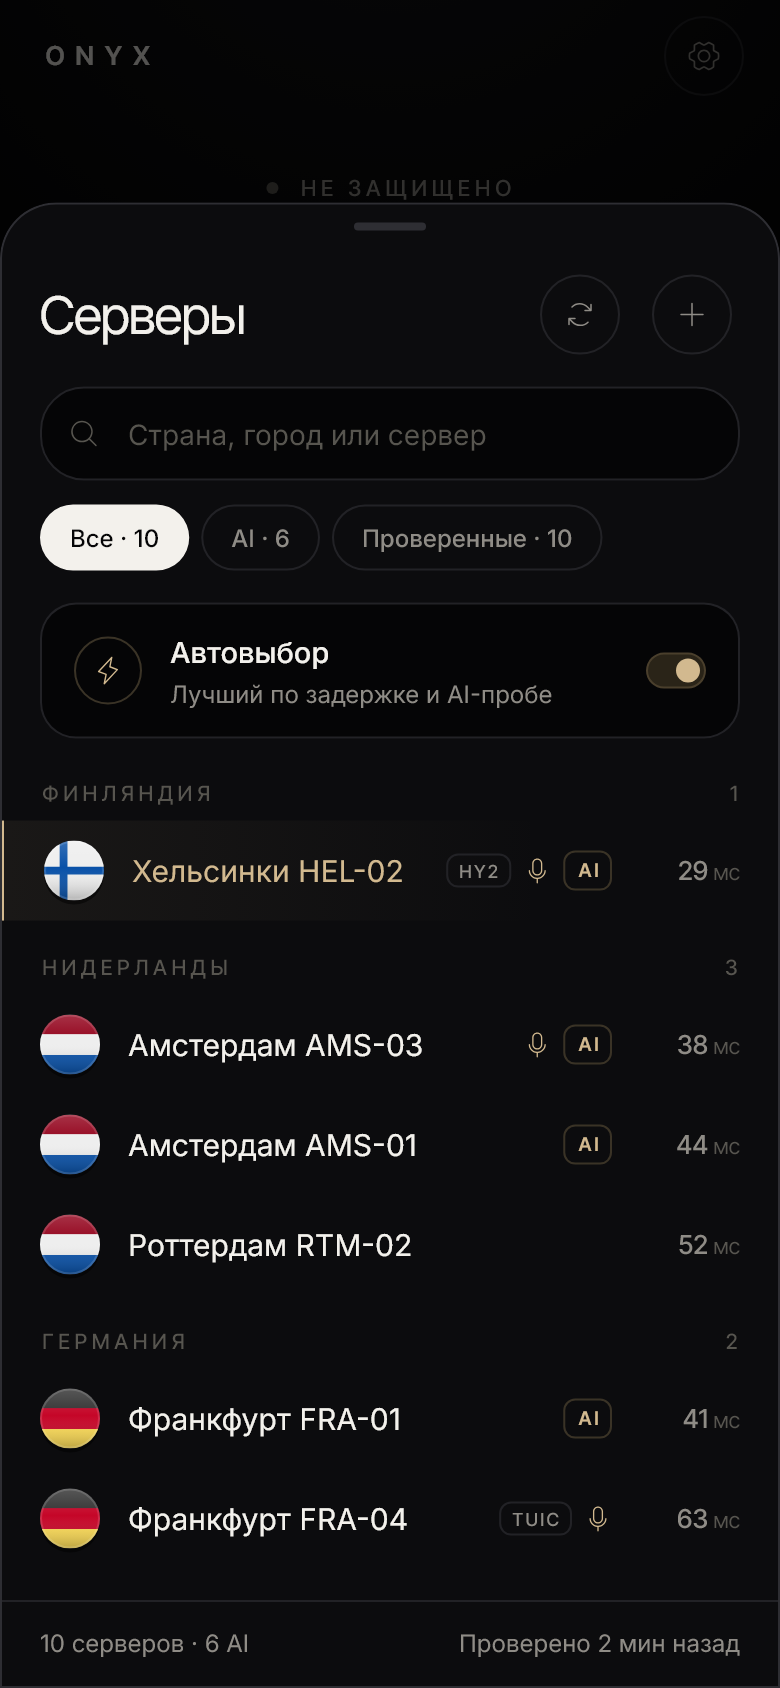
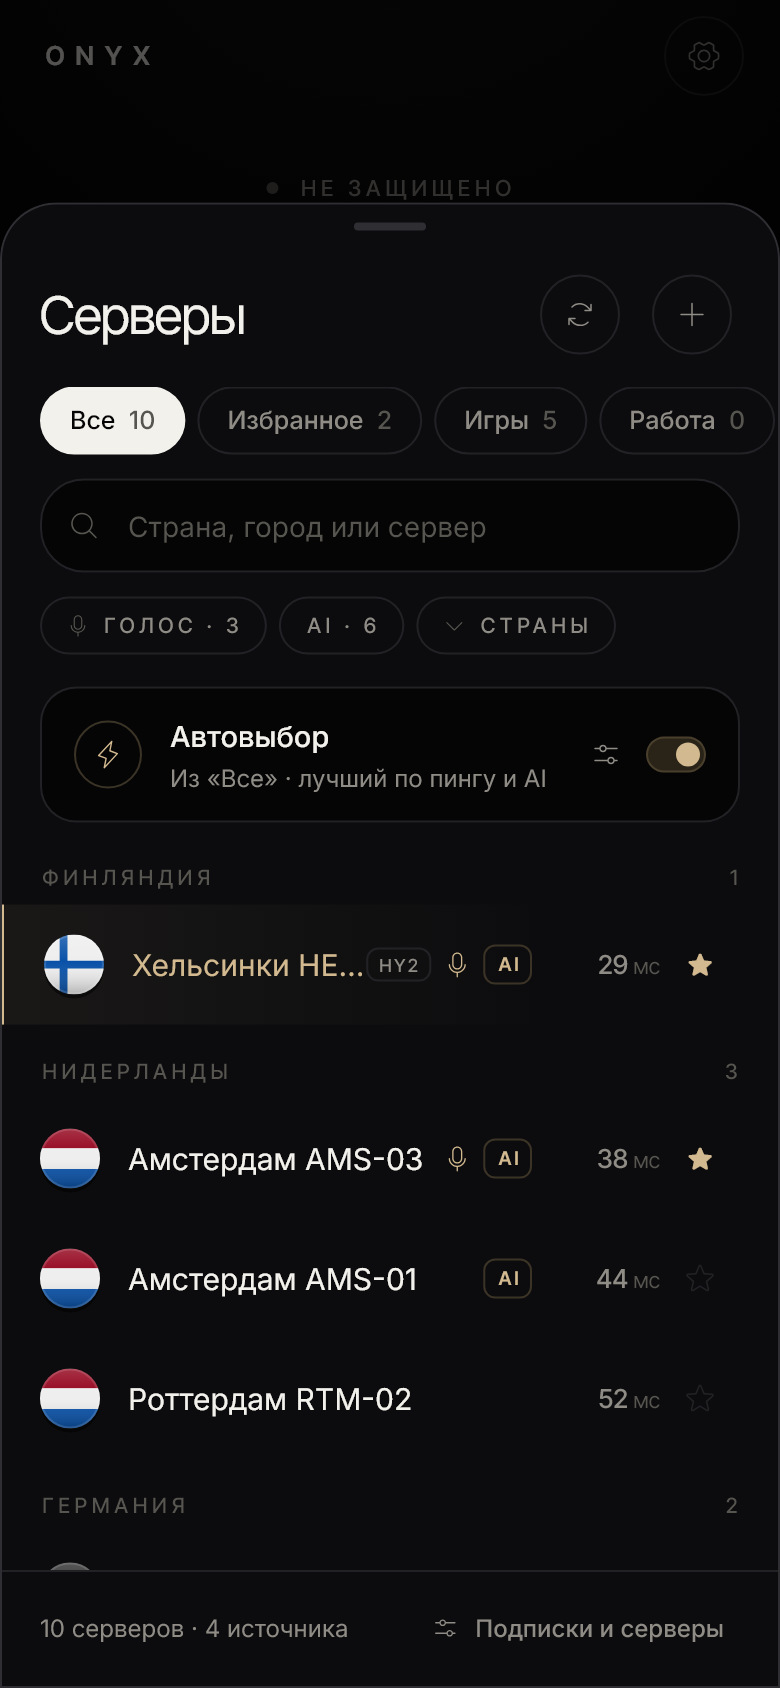
feat(redesign): #40 доводка — lastError в тостах, onReorderItem, звезда в Signal, иконки вместо ▾/★, golden источников/групп/добавления/первого запуска

diff --git a/test/screens_golden_test.dart b/test/screens_golden_test.dart
@@ -15,8 +15,12 @@ import 'package:flutter_test/flutter_test.dart';
 import 'package:onyx/core/theme/app_theme.dart';
 import 'package:onyx/core/theme/theme_kind.dart';
 import 'package:onyx/domain/entities/node.dart';
+import 'package:onyx/domain/entities/node_group.dart';
+import 'package:onyx/domain/entities/subscription_source.dart';
 import 'package:onyx/domain/entities/vpn_state.dart';
 import 'package:onyx/infrastructure/update_service.dart';
+import 'package:onyx/presentation/providers/groups_provider.dart';
+import 'package:onyx/presentation/providers/sources_provider.dart';
 import 'package:onyx/presentation/providers/subscription_provider.dart';
 import 'package:onyx/presentation/providers/theme_provider.dart';
 import 'package:onyx/presentation/providers/update_provider.dart';
@@ -24,8 +28,11 @@ import 'package:onyx/presentation/providers/vpn_provider.dart';
 import 'package:onyx/presentation/screens/home_screen.dart';
 import 'package:onyx/presentation/screens/faq_screen.dart';
 import 'package:onyx/presentation/screens/onboarding_screen.dart';
+import 'package:onyx/presentation/screens/groups_screen.dart';
 import 'package:onyx/presentation/screens/settings_screen.dart';
+import 'package:onyx/presentation/screens/setup_screen.dart';
 import 'package:onyx/presentation/screens/subscription_manager_screen.dart';
+import 'package:onyx/presentation/widgets/add_source_sheet.dart';
 import 'package:onyx/presentation/widgets/country_flag.dart';
 import 'package:onyx/presentation/widgets/node_list_sheet.dart';
 import 'package:shared_preferences/shared_preferences.dart';
@@ -43,6 +50,42 @@ class FakeSub extends StateNotifier<SubscriptionState> implements SubscriptionCo
   @override
   dynamic noSuchMethod(Invocation i) => Future<void>.value();
 }
+
+class FakeSources extends StateNotifier<List<SubscriptionSource>> implements SourcesController {
+  FakeSources(super.state);
+  @override
+  dynamic noSuchMethod(Invocation i) => Future<void>.value();
+}
+
+class FakeGroups extends StateNotifier<List<NodeGroup>> implements GroupsController {
+  FakeGroups(super.state);
+  @override
+  dynamic noSuchMethod(Invocation i) => Future<void>.value();
+}
+
+class FakeFavorites extends StateNotifier<Set<String>> implements FavoritesController {
+  FakeFavorites(super.state);
+  @override
+  dynamic noSuchMethod(Invocation i) => Future<void>.value();
+}
+
+class FakeAutoGroup extends StateNotifier<String?> implements AutoGroupController {
+  FakeAutoGroup(super.state);
+  @override
+  dynamic noSuchMethod(Invocation i) => Future<void>.value();
+}
+
+final sources = [
+  SubscriptionSource(id: 'z', name: 'Белые списки (РФ)', kind: SourceKind.subscription, url: 'https://z', presetId: 'zieng2', nodeCount: 7, autoUpdateHours: 6, lastUpdatedAt: DateTime.now().subtract(const Duration(minutes: 2))),
+  const SubscriptionSource(id: 'c', name: 'Бесплатные (Китай)', kind: SourceKind.subscription, url: 'https://c', presetId: 'china-free', nodeCount: 38, status: SourceStatus.fetching),
+  SubscriptionSource(id: 'v', name: 'Мой VPS', kind: SourceKind.links, nodeCount: 3, lastUpdatedAt: DateTime.now().subtract(const Duration(hours: 1))),
+  const SubscriptionSource(id: 'w', name: 'Рабочая подписка', kind: SourceKind.subscription, url: 'https://sub.example.com/abc', nodeCount: 12, enabled: false, status: SourceStatus.error, error: 'HTTP 403'),
+];
+
+const groups = [
+  NodeGroup(id: 'g1', name: 'Игры', nodeIds: ['4', '5'], sourceIds: ['v']),
+  NodeGroup(id: 'g2', name: 'Работа', sourceIds: ['w']),
+];
 
 class FakeUpdate extends UpdateController {
   @override
@@ -67,6 +110,7 @@ Node node(String id, String name, int? ping, {bool ai = false, bool alive = true
       aiReachable: ai,
       protocol: proto,
       udpSupported: udp,
+      sourceIds: [int.parse(id) <= 7 ? 'z' : 'v'],
     );
 
 final nodes = [
@@ -122,6 +166,10 @@ Widget app(AppThemeKind kind, VpnState vpn, Widget home, {SubscriptionState? s})
         vpnControllerProvider.overrideWith((ref) => FakeVpn(vpn)),
         subscriptionProvider.overrideWith((ref) => FakeSub(s ?? sub)),
         updateControllerProvider.overrideWith(FakeUpdate.new),
+        sourcesProvider.overrideWith((ref) => FakeSources(sources)),
+        groupsProvider.overrideWith((ref) => FakeGroups(groups)),
+        favoritesProvider.overrideWith((ref) => FakeFavorites({'1', '4'})),
+        autoGroupProvider.overrideWith((ref) => FakeAutoGroup(null)),
       ],
       child: MaterialApp(
         debugShowCheckedModeBanner: false,
@@ -179,6 +227,18 @@ void main() {
         await shot(tester, '${k.name}-phone-${e.key}', app(k, vpnOf('off'), e.value), phone);
       });
     }
+    testWidgets('${k.name} phone sources', (tester) async {
+      await shot(tester, '${k.name}-phone-sources', app(k, vpnOf('off'), const SubscriptionManagerScreen()), phone);
+    });
+    testWidgets('${k.name} phone groups', (tester) async {
+      await shot(tester, '${k.name}-phone-groups', app(k, vpnOf('off'), const GroupsScreen()), phone);
+    });
+    testWidgets('${k.name} phone add', (tester) async {
+      await shot(tester, '${k.name}-phone-add', app(k, vpnOf('off'), const Scaffold(body: SafeArea(child: AddSourcePanel(mode: AddSourceMode.links, inline: true, initial: 'vless://8f1c@203.0.113.7:443?security=reality#Мой VPS\nhysteria2://k3y@203.0.113.7:8443#VPS HY2')))), phone);
+    });
+    testWidgets('${k.name} phone setup', (tester) async {
+      await shot(tester, '${k.name}-phone-setup', app(k, vpnOf('off'), SetupScreen(onComplete: () {})), phone);
+    });
     testWidgets('${k.name} phone settings', (tester) async {
       await shot(tester, '${k.name}-phone-settings', app(k, vpnOf('off'), const SettingsScreen()), phone);
     });

diff --git a/lib/presentation/widgets/node_list_sheet.dart b/lib/presentation/widgets/node_list_sheet.dart
@@ -264,7 +264,7 @@ class _NodeListPanelState extends ConsumerState<NodeListPanel> {
           value: tab,
           tabs: [
             (null, 'Все', sub.nodes.length),
-            ('auto:fav', t.isSignal ? '★ Избранное' : 'Избранное', favs.length),
+            ('auto:fav', 'Избранное', favs.length),
             for (final g in userGroups) (g.id, g.name, ref.watch(groupNodesProvider(g.id)).length),
           ],
           onChanged: (v) => setState(() => _tab = v),
@@ -276,7 +276,10 @@ class _NodeListPanelState extends ConsumerState<NodeListPanel> {
           },
         ),
         const SizedBox(height: 12),
-$1
+        Padding(
+          padding: EdgeInsets.symmetric(horizontal: pad),
+          child: TextField(
+            controller: _query,
             onChanged: (_) => setState(() {}),
             style: TextStyle(fontFamily: t.bodyFont, fontSize: t.isMaterial ? 16 : 14, color: t.text),
             decoration: onyxInputDecoration(
@@ -466,7 +469,7 @@ class _FacetRow extends StatelessWidget {
     final chips = <(String, bool, VoidCallback, OnyxGlyph?)>[
       ('Голос · $voiceCount', value.voice, () => onChanged(value.copy(voice: !value.voice)), OnyxGlyph.voice),
       ('AI · $aiCount', value.ai, () => onChanged(value.copy(ai: !value.ai)), null),
-      ('$countryLabel ▾', value.country != null, () => _pickCountry(context), null),
+      (countryLabel, value.country != null, () => _pickCountry(context), OnyxGlyph.chevronDown),
     ];
     if (t.isMaterial) {
       return Wrap(spacing: 8, children: [
@@ -642,7 +645,18 @@ class _SegmentPosition extends InheritedWidget {
   bool updateShouldNotify(_SegmentPosition old) => old.first != first || old.last != last;
 }
 
-$1  final VoidCallback onTap;
+class _NodeRow extends StatelessWidget {
+  const _NodeRow({
+    required this.node,
+    required this.selected,
+    required this.favorite,
+    required this.onFavorite,
+    required this.onLongPress,
+    required this.onTap,
+  });
+  final Node node;
+  final bool selected;
+  final VoidCallback onTap;
   final bool favorite;
   final VoidCallback onFavorite, onLongPress;
 
@@ -693,7 +707,6 @@ $1  final VoidCallback onTap;
                 NodeBadges(node: node),
                 const SizedBox(width: 10),
                 PingIndicator(ms: dead ? null : node.latencyMs),
-            _star(t),
                 _star(t),
                 if (selected) ...[const SizedBox(width: 10), Icon(Icons.check_rounded, size: 22, color: s.onSecondaryContainer)],
               ]),
@@ -732,6 +745,7 @@ $1  final VoidCallback onTap;
             PingText(ms: dead ? null : node.latencyMs, width: 36),
             const SizedBox(width: 8),
             PingIndicator(ms: dead ? null : node.latencyMs),
+            _star(t),
           ]),
         ),
       );

diff --git a/lib/presentation/widgets/add_source_sheet.dart b/lib/presentation/widgets/add_source_sheet.dart
@@ -95,7 +95,7 @@ class _AddSourcePanelState extends ConsumerState<AddSourcePanel> {
     if (!mounted) return;
     setState(() => _busy = false);
     if (res == null) {
-      showOnyxToast(context, 'Не удалось добавить: проверьте ссылку', glyph: OnyxGlyph.error);
+      showOnyxToast(context, ctl.lastError ?? 'Не удалось добавить: проверьте ссылку', glyph: OnyxGlyph.error);
       return;
     }
     HapticFeedback.lightImpact();
@@ -204,7 +204,7 @@ class _AddSourcePanelState extends ConsumerState<AddSourcePanel> {
                       ),
                 child: _busy
                     ? SizedBox.square(dimension: 16, child: CircularProgressIndicator(strokeWidth: 1.6, color: t.bg))
-                    : Text(t.isSignal ? 'ДОБАВИТЬ' : 'Добавить источник'),
+                    : Text(t.isSignal ? 'ДОБАВИТЬ' : 'Добавить'),
               ),
             ),
           ]),

diff --git a/lib/presentation/screens/subscription_manager_screen.dart b/lib/presentation/screens/subscription_manager_screen.dart
@@ -107,7 +107,8 @@ class SubscriptionManagerScreen extends ConsumerWidget {
                   padding: EdgeInsets.symmetric(horizontal: t.isMaterial ? 16 : 20),
                   sliver: SliverReorderableList(
                     itemCount: sources.length,
-                    onReorder: (a, b) => ref.read(sourcesProvider.notifier).reorder(a, b),
+                    // onReorderItem даёт уже скорректированный индекс; домен ждёт семантику ReorderableListView.
+                    onReorderItem: (a, b) => ref.read(sourcesProvider.notifier).reorder(a, b > a ? b + 1 : b),
                     itemBuilder: (context, i) => ReorderableDelayedDragStartListener(
                       key: ValueKey(sources[i].id),
                       index: i,

diff --git a/lib/presentation/screens/groups_screen.dart b/lib/presentation/screens/groups_screen.dart
@@ -122,7 +122,8 @@ class GroupsScreen extends ConsumerWidget {
                 padding: EdgeInsets.symmetric(horizontal: pad),
                 sliver: SliverReorderableList(
                   itemCount: groups.length,
-                  onReorder: (a, b) => ref.read(groupsProvider.notifier).reorder(a, b),
+                  // onReorderItem даёт уже скорректированный индекс; домен ждёт семантику ReorderableListView.
+                  onReorderItem: (a, b) => ref.read(groupsProvider.notifier).reorder(a, b > a ? b + 1 : b),
                   itemBuilder: (c, i) {
                     final g = groups[i];
                     final count = ref.watch(groupNodesProvider(g.id)).length;

diff --git a/lib/presentation/widgets/subscription_import.dart b/lib/presentation/widgets/subscription_import.dart
@@ -59,7 +59,7 @@ class _SubscriptionImportState extends ConsumerState<SubscriptionImport> {
     final res = looksLikeSubscriptionUrl(raw) ? await ctl.addSubscription(raw) : await ctl.addLinks(raw);
     if (!mounted) return;
     if (res == null) {
-      showOnyxToast(context, 'Не удалось добавить: проверьте ссылку', glyph: OnyxGlyph.error);
+      showOnyxToast(context, ctl.lastError ?? 'Не удалось добавить: проверьте ссылку', glyph: OnyxGlyph.error);
     } else {
       _ctl.clear();
     }

diff --git a/lib/presentation/widgets/preset_tile.dart b/lib/presentation/widgets/preset_tile.dart
@@ -17,7 +17,7 @@ Future<bool> loadPreset(BuildContext context, WidgetRef ref, SubscriptionPreset 
   HapticFeedback.lightImpact();
   final src = await ref.read(sourcesProvider.notifier).addPreset(preset);
   if (src == null && context.mounted) {
-    showOnyxToast(context, 'Не удалось загрузить «»', glyph: OnyxGlyph.error);
+    showOnyxToast(context, ref.read(sourcesProvider.notifier).lastError ?? 'Не удалось загрузить «»', glyph: OnyxGlyph.error);
   }
   return src != null;
 }
